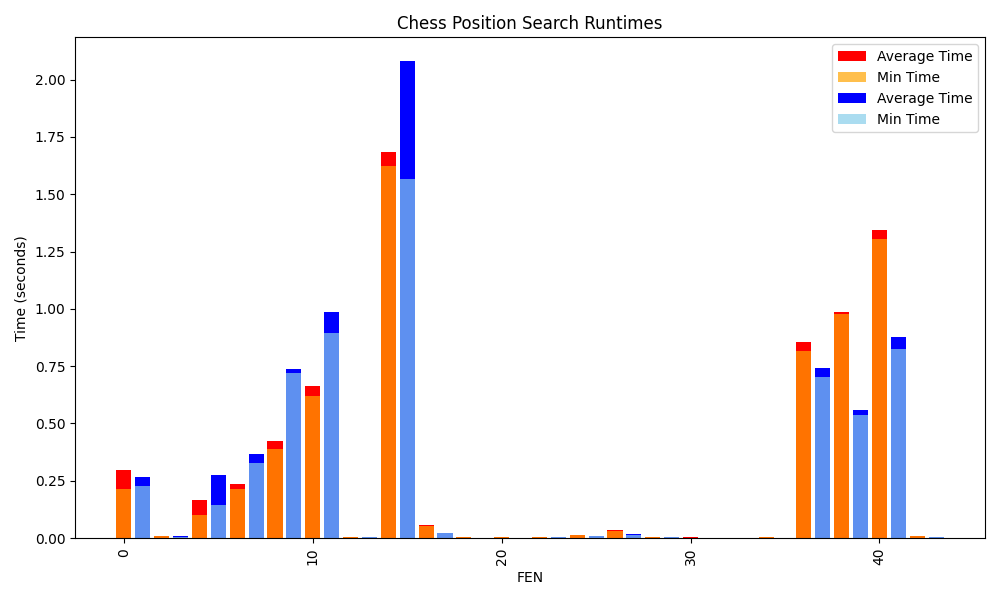
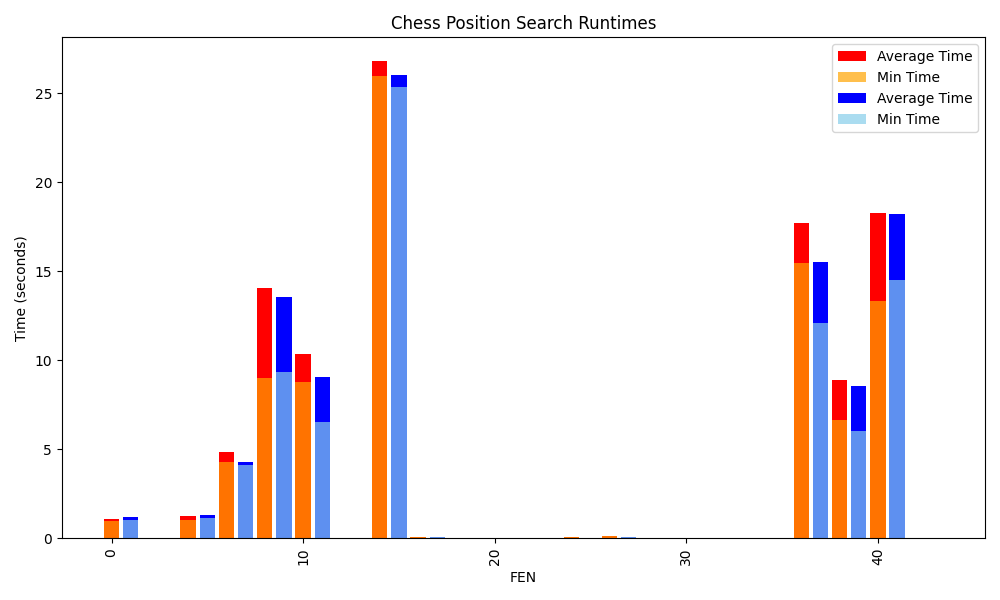
finished report

diff --git a/src/main/java/cheekykoala/Main.java b/src/main/java/cheekykoala/Main.java
@@ -280,7 +280,7 @@ public class Main {
         }
         double bestMoveValue;
         if (isWhite) {
-            moves.sort(Comparator.comparingDouble((Move move) -> move.getEval(board)).reversed());
+            moves.sort(Comparator.comparingDouble((Move move) -> move.getEval(board)));
             bestMoveValue = Double.NEGATIVE_INFINITY;
             for (Move move : moves) {
                 bestMoveValue = Math.max(bestMoveValue, minimax(board.getChild(move), depth - 1, alpha, beta, false, timeLeft - (System.currentTimeMillis() - startTime)));
@@ -290,7 +290,7 @@ public class Main {
                 alpha = Math.max(alpha, bestMoveValue);
             }
         } else {
-            moves.sort(Comparator.comparingDouble((Move move) -> move.getEval(board)));
+            moves.sort(Comparator.comparingDouble((Move move) -> move.getEval(board)).reversed());
             bestMoveValue = Double.POSITIVE_INFINITY;
             for (Move move : moves) {
                 bestMoveValue = Math.min(bestMoveValue, minimax(board.getChild(move), depth - 1, alpha, beta, true, timeLeft - (System.currentTimeMillis() - startTime)));

diff --git a/src/test/java/cheekykoala/MainTest.java b/src/test/java/cheekykoala/MainTest.java
@@ -35,8 +35,11 @@ public class MainTest {
 
     @Test
     public void testIterativeDeepening() {
-        Board board = new Board();
-        System.out.println(iterativeDeepening(board, Color.w, 10000));
+        Board board = new Board("2r3k1/p4p2/3Rp2p/1p2P1pK/8/1P4P1/P3Q2P/1q6 b - - 0 1");
+        // board.importBoard("2r3k1/p4p2/3Rp1qp/1p2P1p1/6K1/1P4P1/P3Q2P/8 b - - 2 2");
+        // board.importBoard("2r3k1/p4p2/3Rp2p/1p2PqpK/8/1P4P1/P3Q2P/8 b - - 4 3");
+        board.printBoard();
+        System.out.println(iterativeDeepening(board, Color.b, 10000));
     }
 
 }

diff --git a/graph.py b/graph.py
@@ -2,8 +2,8 @@ import pandas as pd
 import matplotlib.pyplot as plt
 
 # Load JSON
-df_old = pd.read_json('baseline-6.json')
-df_new = pd.read_json('benchmark_results_6127.json')
+df_old = pd.read_json('./benchmark_results_9964.json')
+df_new = pd.read_json('./sort-6-correct.json')
 
 # Plot
 plt.figure(figsize=(10,6))
